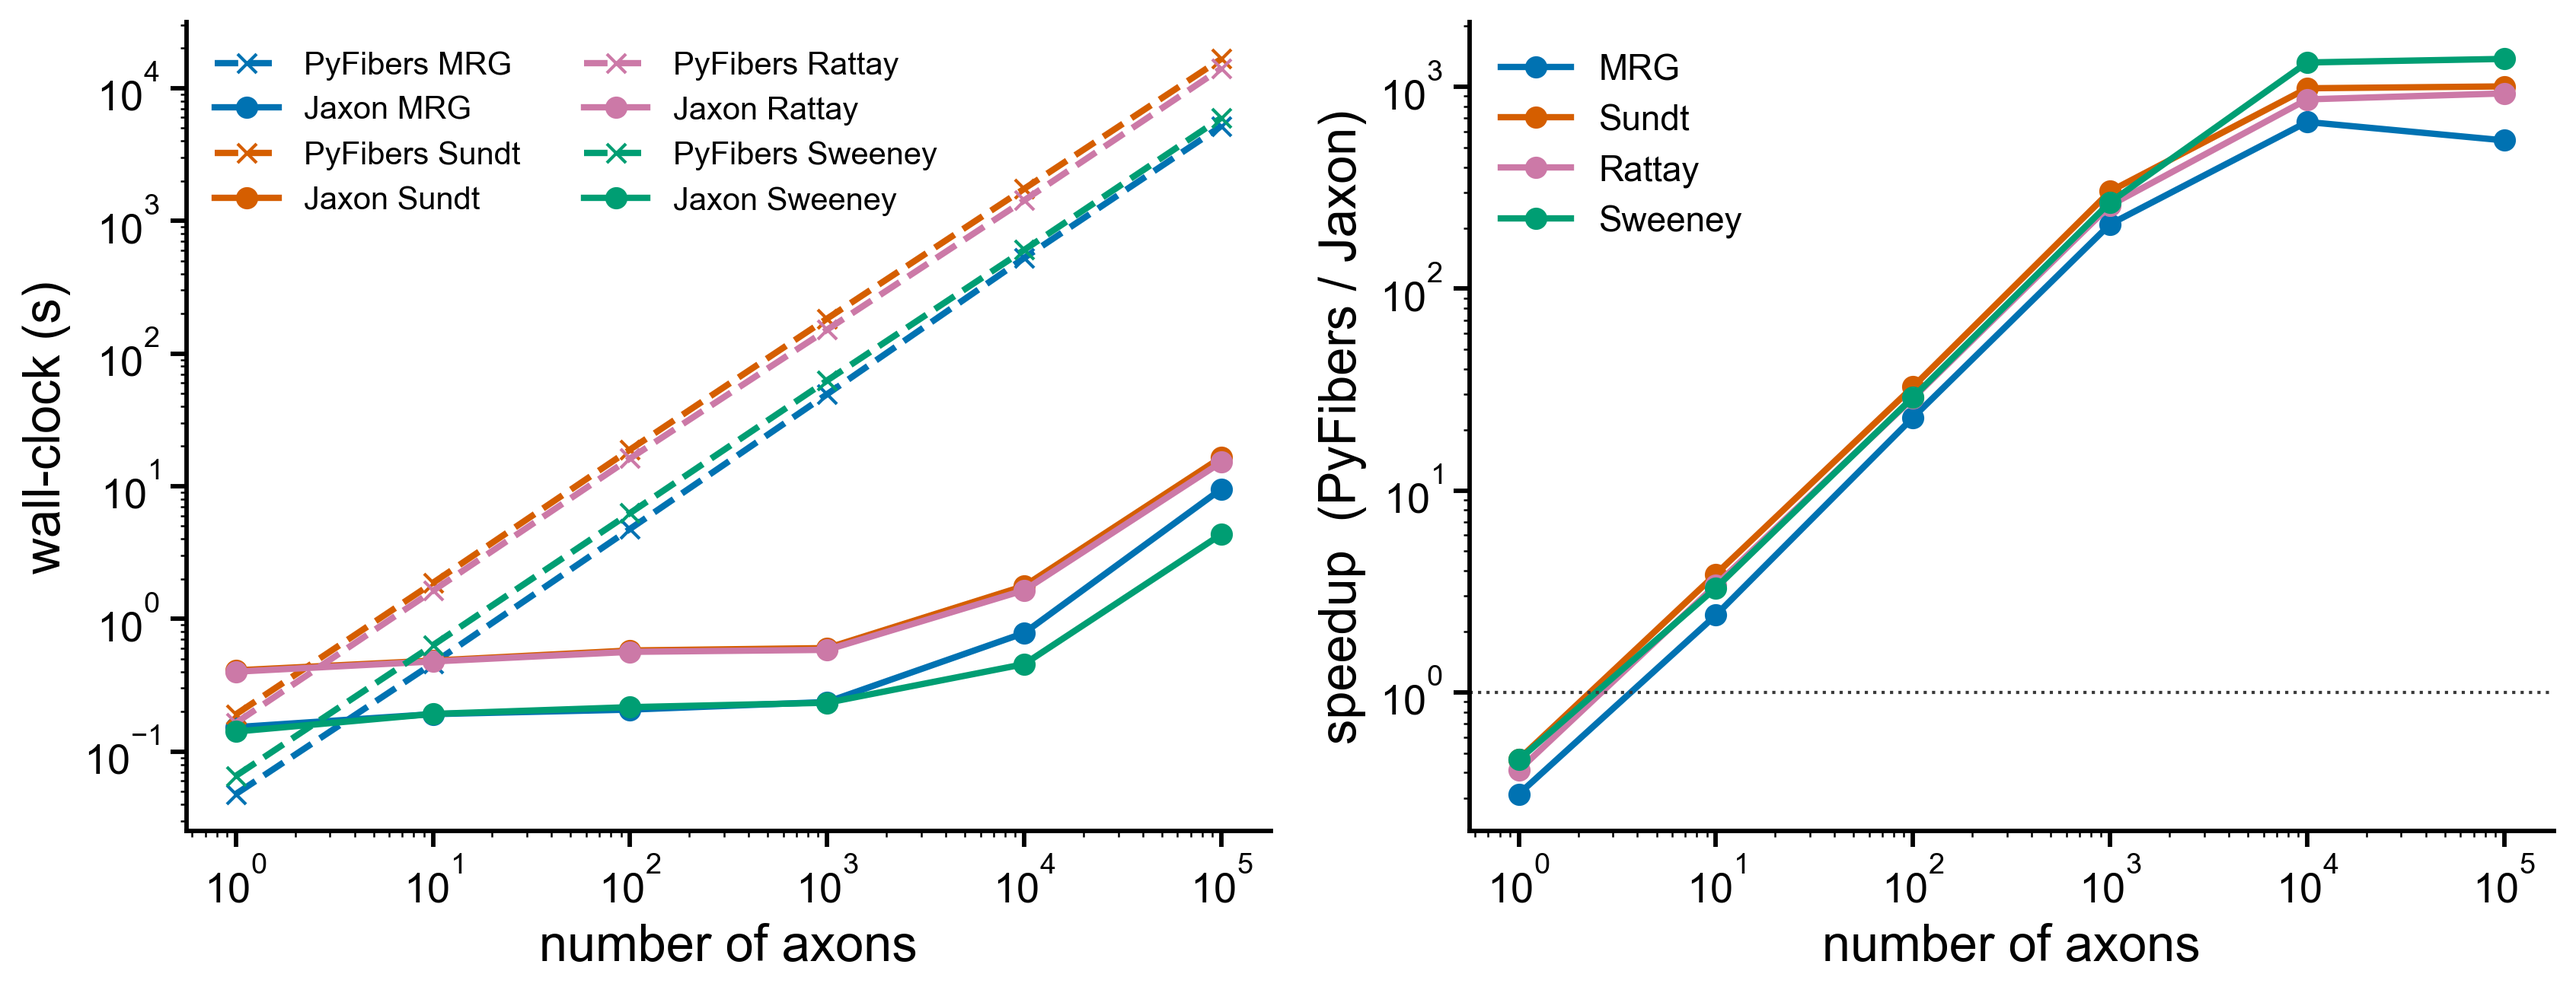
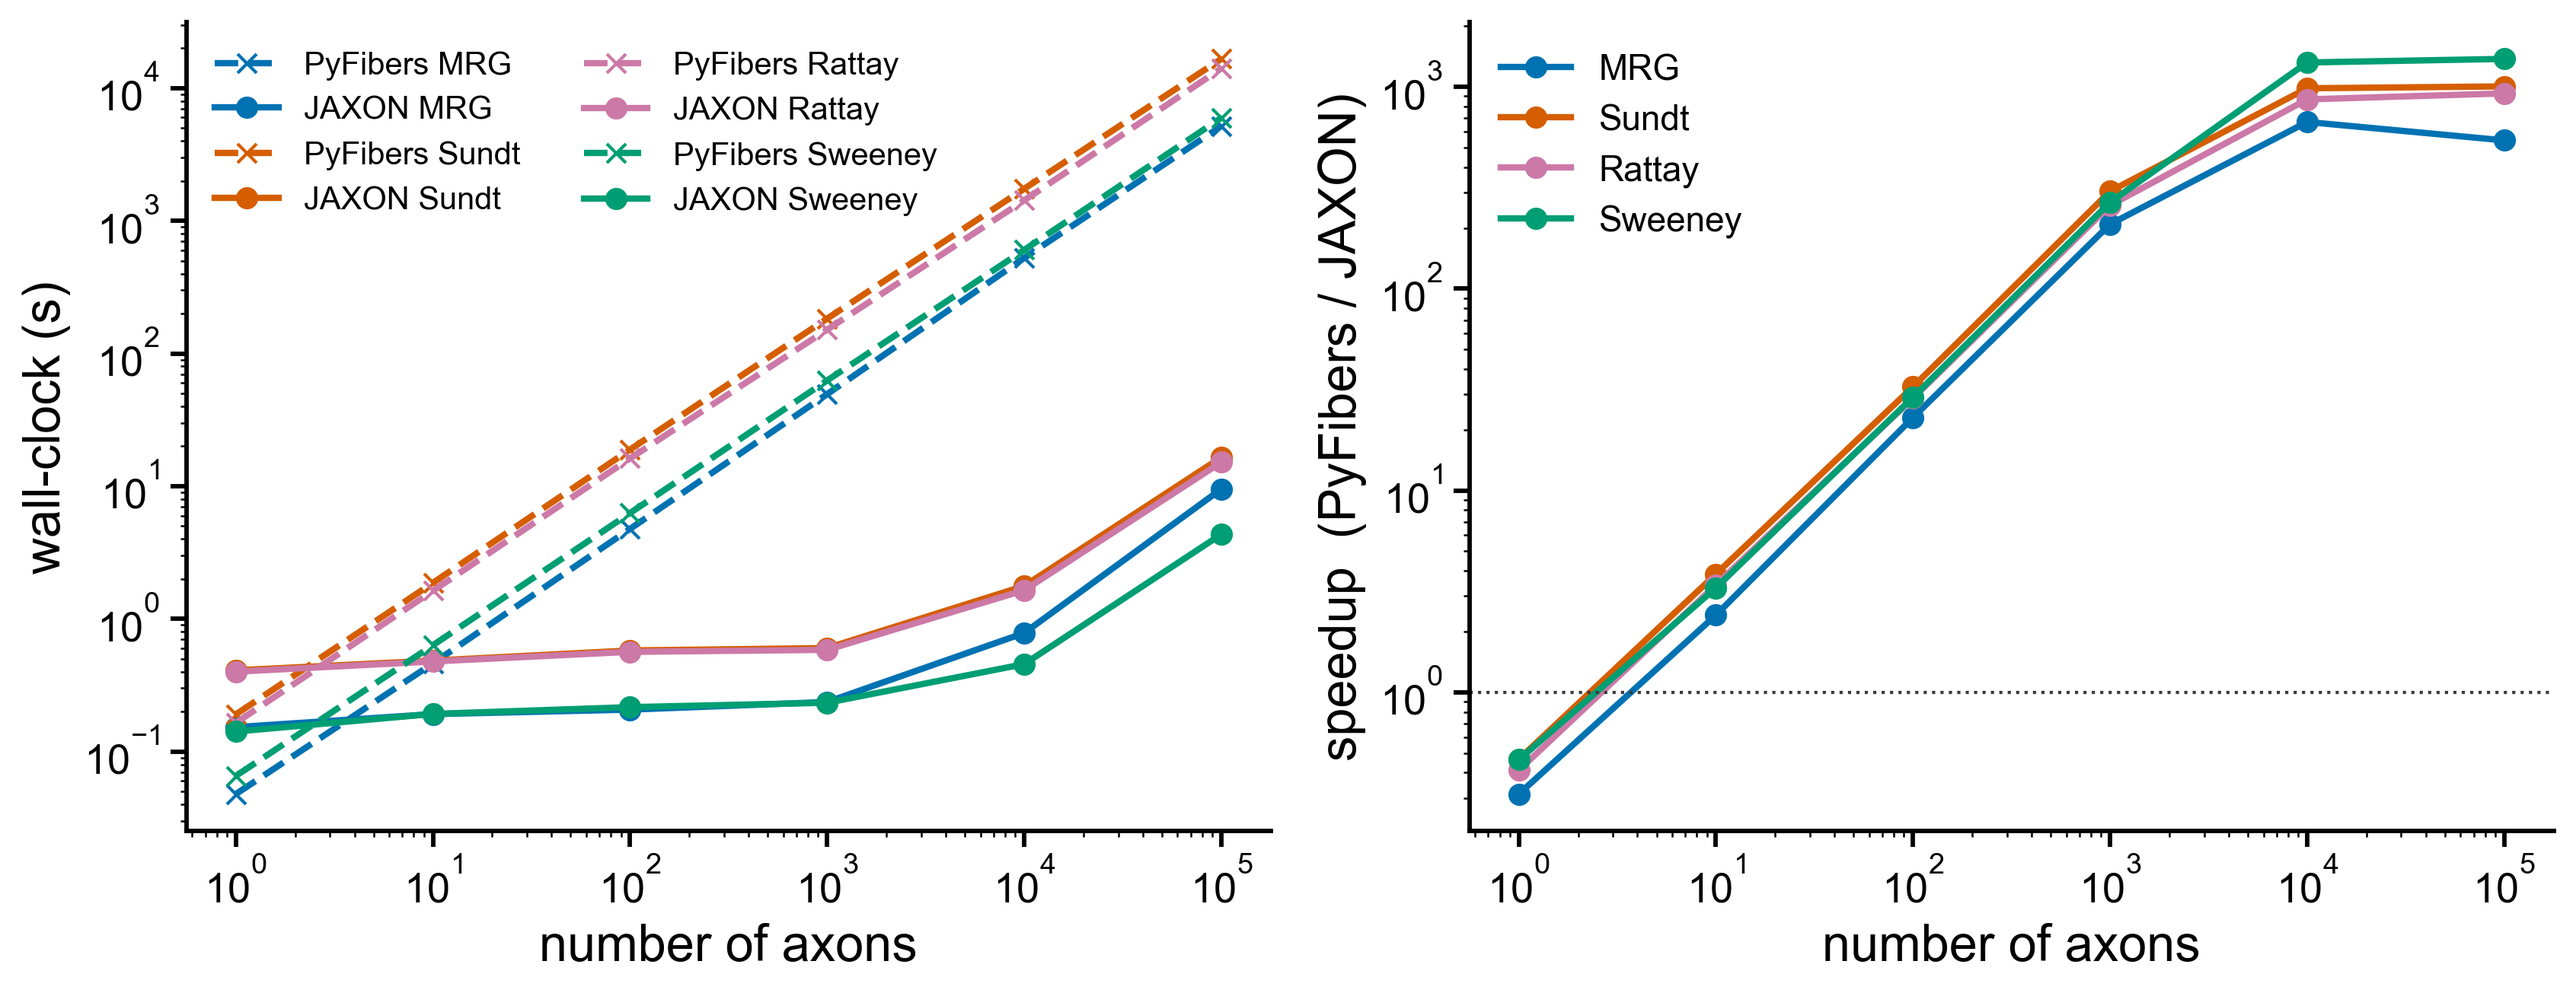
figures: 'Jaxon' -> 'JAXON' (all caps) in validation labels
User clarification: brand mark is rendered in all-caps as JAXON.
Updated the five user-facing strings in figures_validation.py:

  - fig1 y-axis: 'Jaxon threshold' -> 'JAXON threshold'
  - fig4b scaling legend entries:  'Jaxon {model}' -> 'JAXON {model}'
  - fig4b speedup ylabel: 'PyFibers / Jaxon' -> 'PyFibers / JAXON'
  - fig5 CV legend entries: 'Jaxon {m}' -> 'JAXON {m}'
  - fig6 SD engine-convention legend: 'Jaxon' -> 'JAXON'

PyFibers stays mixed-case (it is the upstream project's published
name).  Internal variable names, dict keys, and the docstring are
left untouched.

diff --git a/experiments_v2/figures_validation.py b/experiments_v2/figures_validation.py
@@ -208,7 +208,7 @@ def make_fig1_scatter(rows: list[dict]) -> Path:
                         edgecolor=PALETTE["grey"], linewidth=0.8))
 
     ax.set_xlabel("PyFibers / NEURON threshold (|mA|)")
-    ax.set_ylabel("Jaxon threshold (|mA|)")
+    ax.set_ylabel("JAXON threshold (|mA|)")
     ax.set_xlim(0, hi + pad); ax.set_ylim(0, hi + pad)
     ax.set_aspect("equal")
     ax.legend(loc="lower right", frameon=False)
@@ -327,7 +327,7 @@ def make_fig4b_scaling() -> Path:
         ax_t.plot(N, py,       color=col, ls="--", marker="x",
                     label=f"PyFibers {model}", lw=2)
         ax_t.plot(N, jax_run,  color=col, ls="-",  marker="o",
-                    label=f"Jaxon {model}",     lw=2)
+                    label=f"JAXON {model}",     lw=2)
         ax_s.plot(N, py / jax_run, color=col, marker="o", label=model, lw=2)
 
     for ax in (ax_t, ax_s):
@@ -337,7 +337,7 @@ def make_fig4b_scaling() -> Path:
     ax_t.set_ylabel("wall-clock (s)")
     ax_t.legend(fontsize=10, ncol=2, frameon=False)
     ax_s.axhline(1.0, color=PALETTE["grey"], ls=":", lw=1)
-    ax_s.set_ylabel("speedup  (PyFibers / Jaxon)")
+    ax_s.set_ylabel("speedup  (PyFibers / JAXON)")
     ax_s.legend(fontsize=11, frameon=False)
 
     fig.tight_layout()
@@ -374,7 +374,7 @@ def make_fig5_cv() -> Path:
             ax.plot(diams, py_v, ls="--", marker="x", color=col,
                       label=f"PyFibers {m}", lw=2)
             ax.plot(diams, jax_v, ls="-",  marker="o", color=col,
-                      label=f"Jaxon {m}",     lw=2)
+                      label=f"JAXON {m}",     lw=2)
             any_plotted = True
         ax.set_xlabel(r"fibre diameter ($\mu$m)")
         ax.set_ylabel("conduction velocity (m/s)")
@@ -444,7 +444,7 @@ def make_fig6_strength_duration() -> Path:
     from matplotlib.lines import Line2D
     engine_handles = [
         Line2D([0], [0], color="black", marker="o", linestyle="-",
-                 lw=1.8, label="Jaxon"),
+                 lw=1.8, label="JAXON"),
         Line2D([0], [0], color="black", marker="x", linestyle="--",
                  lw=1.8, label="PyFibers"),
     ]
